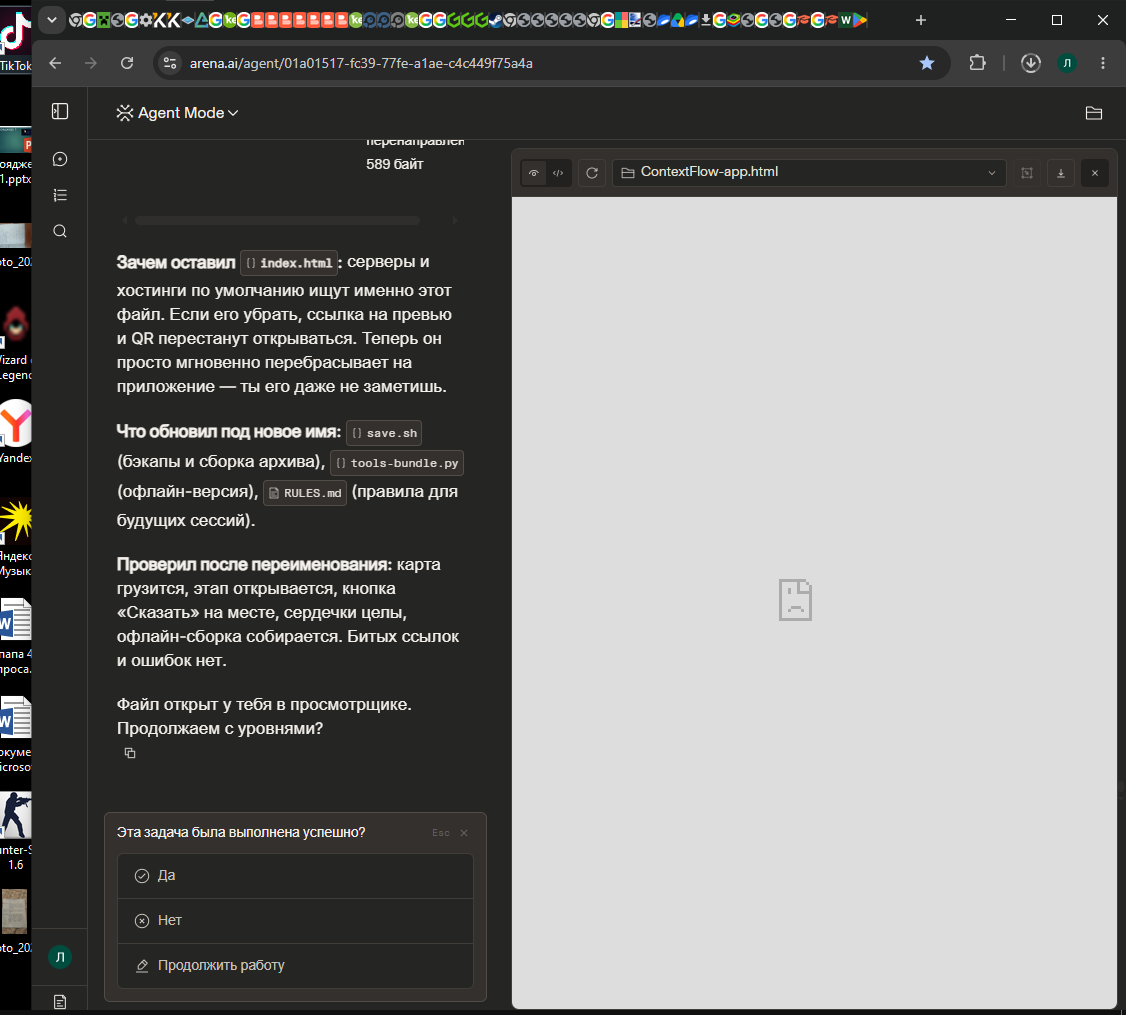
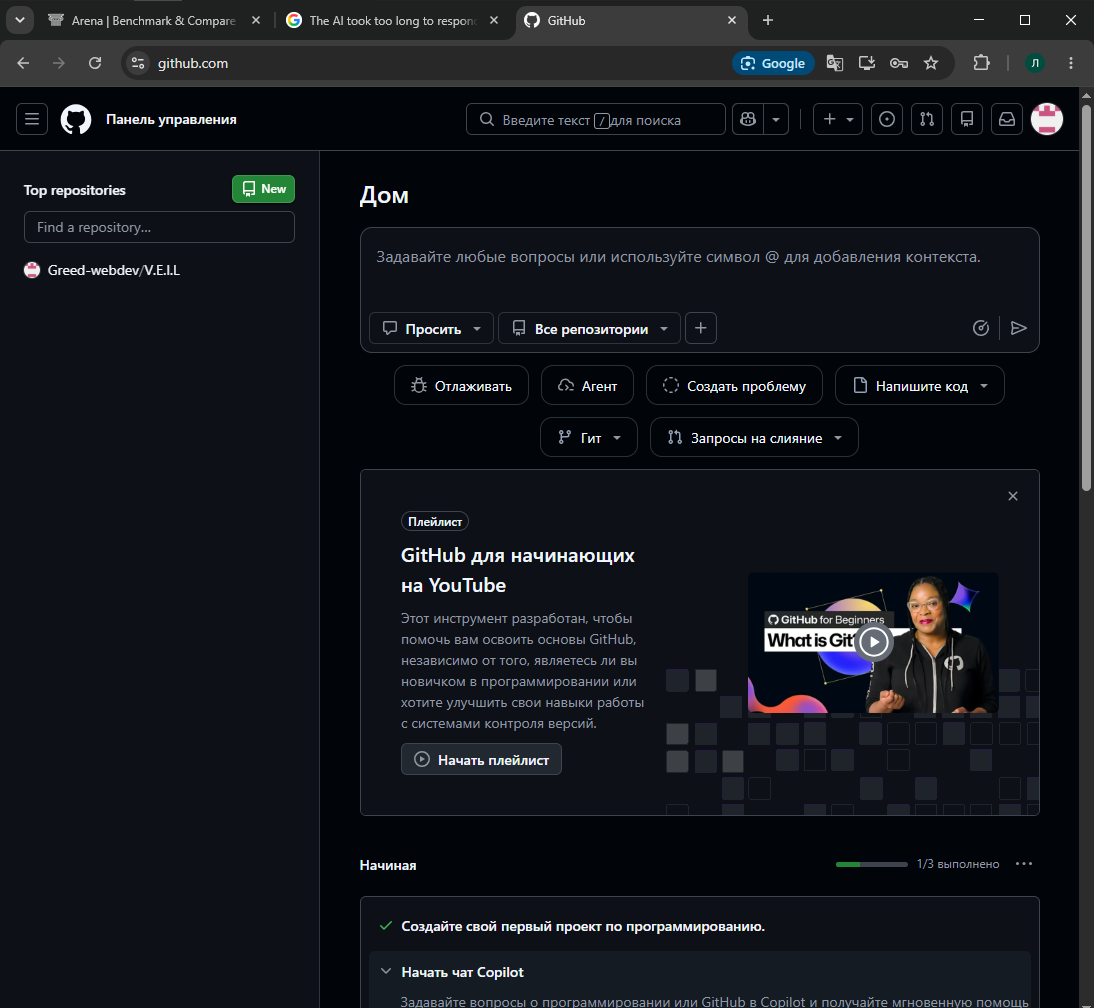
сайт подключён: GitHub Pages + скрипт обновления

diff --git a/КАК-ЗАЛИТЬ.md b/КАК-ЗАЛИТЬ.md
@@ -1,116 +1,102 @@
-# Как выложить ContextFlow в Telegram
+# ContextFlow уже в интернете
 
-Всё бесплатно. Займёт минут 15 в первый раз.
+Хостинг подключён и работает. Осталась только часть с ботом —
+туда я попасть не могу, нужен твой Telegram.
 
-Заливать нужно **папку `deploy`** — там только то, что нужно приложению.
-Ничего лишнего: ни правил, ни бэкапов, ни старых версий.
+## Ссылка на приложение
+
+```
+https://greed-webdev.github.io/contextflow/
+```
+
+Открывается по https, значит микрофон разрешён.
+Можешь прямо сейчас открыть эту ссылку на телефоне и проверить.
+
+Репозиторий: https://github.com/Greed-webdev/contextflow
 
 ---
 
-## Часть 1. Положить приложение в интернет
+## Что осталось сделать тебе (5 минут)
 
-Telegram не хранит файлы у себя. Он открывает страницу по ссылке,
-поэтому страница должна где-то лежать. И обязательно по **https** —
-без него Telegram не запустит приложение, а браузер не даст микрофон.
+### Шаг 1. Создать бота
 
-### Vercel — самый простой путь
+Открой в Telegram **@BotFather** и отправь:
 
-1. Заходишь на **vercel.com**, регистрируешься (можно через GitHub или почту).
-2. Нажимаешь **Add New → Project**.
-3. Выбираешь **Deploy without Git** (или вкладку с загрузкой папки).
-4. Перетаскиваешь туда папку **`deploy`** целиком.
-5. Ждёшь минуту. Получаешь ссылку вида:
+```
+/newbot
+```
+
+Дальше он спросит:
+- **Имя бота** — любое, например `ContextFlow`
+- **Логин бота** — обязан заканчиваться на `bot`,
+  например `contextflow_app_bot` (если занят — придумай другой)
+
+В ответ придёт токен бота. Сохрани его, пригодится в будущем.
+
+### Шаг 2. Привязать приложение
+
+Там же отправь:
+
+```
+/newapp
+```
+
+Дальше по порядку:
+1. Выбери своего бота из списка
+2. **Название** — `ContextFlow`
+3. **Описание** — например «Изучение языков через восхождение на гору»
+4. **Картинка** — любая 640×360
+5. **GIF** — можно пропустить, отправь `/empty`
+6. **Ссылка** — вставь:
    ```
-   https://contextflow-xxxx.vercel.app
+   https://greed-webdev.github.io/contextflow/
    ```
-6. Открой её в браузере — приложение должно запуститься.
+7. **Короткое имя** — например `app`
 
-Эту ссылку сохрани, она нужна дальше.
+Готово. Открывай своего бота — там будет кнопка запуска.
 
-### Если Vercel не понравился
+### Шаг 3. Проверить микрофон
 
-**Netlify** — то же самое: netlify.com → Add new site → Deploy manually →
-перетащить папку `deploy`.
+1. Запусти приложение **на телефоне**
+2. Зайди в урок со словами
+3. Нажми **«Сказать»**
+4. Должно появиться окно **«Разрешить доступ к микрофону?»** → разреши
+5. Скажи слово вслух — увидишь распознанный текст и процент
 
-Файлы настроек уже лежат внутри: `vercel.json` для Vercel,
-`_headers` для Netlify. Они разрешают Telegram показывать приложение
-и открывают доступ к микрофону. Ничего настраивать руками не надо.
-
----
-
-## Часть 2. Привязать к боту
-
-1. Открой в Telegram **@BotFather**.
-2. Отправь `/newbot`.
-3. Придумай имя — например `ContextFlow`.
-4. Придумай логин — обязан заканчиваться на `bot`, например `contextflow_app_bot`.
-5. Получишь токен — длинную строку. Сохрани её, пригодится позже.
-
-Теперь привязываем приложение:
-
-6. Отправь `/newapp`.
-7. Выбери своего бота из списка.
-8. Название приложения — `ContextFlow`.
-9. Описание — например «Изучение языков через восхождение на гору».
-10. Картинку — любую 640×360.
-11. **Ссылку с Vercel** — ту самую, из первой части.
-12. Короткое имя (для прямой ссылки) — например `app`.
-
-Готово. Открывай своего бота в Telegram — там появится кнопка запуска.
-
----
-
-## Часть 3. Проверить микрофон
-
-Ради этого всё и делалось.
-
-1. Открой бота **на телефоне**, запусти приложение.
-2. Зайди в любой урок со словами.
-3. Нажми **«Сказать»**.
-4. Должно появиться системное окно **«Разрешить доступ к микрофону?»** —
-   нажми «Разрешить».
-5. Надпись сменится на «Говори» — произнеси слово вслух.
-6. Увидишь распознанный текст и процент совпадения.
-
-**Если окно не появилось**, приложение само покажет инструкцию
-под твой телефон — просто следуй шагам на экране.
-
-Кратко:
-- **iPhone:** Настройки → Telegram → включить «Микрофон»
-- **Android:** зажать иконку Telegram → О приложении → Разрешения →
-  Микрофон → Разрешить
-
-После этого **закрой и снова открой** мини-приложение — иначе не подхватится.
+Если окно не появилось, приложение само покажет инструкцию под твой телефон.
 
 ---
 
 ## Как обновлять после доработок
 
-Приложение **само не обновится**. На хостинге лежит копия, снятая в момент заливки.
+Теперь это одна команда. Только нужен токен GitHub —
+он не сохраняется между сессиями, это защита платформы.
 
-Когда мы что-то доработаем:
+```
+GH_TOKEN=ghp_твой_токен ./обновить-сайт.sh
+```
 
-1. Скажи мне «собери папку для заливки» — обновлю `deploy`.
-2. Скачай её.
-3. На Vercel: проект → **Deployments** → перетащить папку заново.
-4. Ссылка останется прежней, бота перенастраивать не нужно.
+Сайт обновится за 1–2 минуты. **Ссылка не меняется**, бота
+перенастраивать не надо.
 
-Минута работы. Если правки станут частыми — можно настроить
-автообновление через GitHub, скажи, и разберёмся.
+Обычно я сделаю это сам — просто скажи «обнови сайт» и дай токен.
 
-**Важно про кэш:** настройки уже прописаны так, что код и стили
-подтягиваются свежими сразу, а тяжёлые картинки кэшируются надолго.
-Так что после перезаливки пользователи увидят изменения без чистки кэша.
+**Важно:** после обновления закрой мини-приложение в Telegram
+полностью (свайп вниз) и открой заново, иначе покажется старая версия.
+
+### Если токен истёк
+
+Сделай новый: https://github.com/settings/tokens/new
+Срок — 7 дней, галочка только **repo**.
 
 ---
 
-## Если что-то пошло не так
+## Безопасность
 
-**Приложение не открывается в Telegram** — проверь, что ссылка начинается
-с `https://` и открывается в обычном браузере.
+Текущий токен использован только для подключения и **нигде не сохранён** —
+ни в файлах, ни в истории. Я проверил.
 
-**Микрофон не просит доступ** — открыто по `http` вместо `https`.
-Так работать не будет, это защита браузера.
+Когда убедишься, что всё работает — **отзови его**:
+https://github.com/settings/tokens → напротив `contextflow` → Delete
 
-**Изменения не видны после перезаливки** — закрой мини-приложение
-полностью и открой заново. В Telegram: свайпнуть вниз, потом снова запустить.
+Для следующего обновления сделаешь новый, это 30 секунд.
